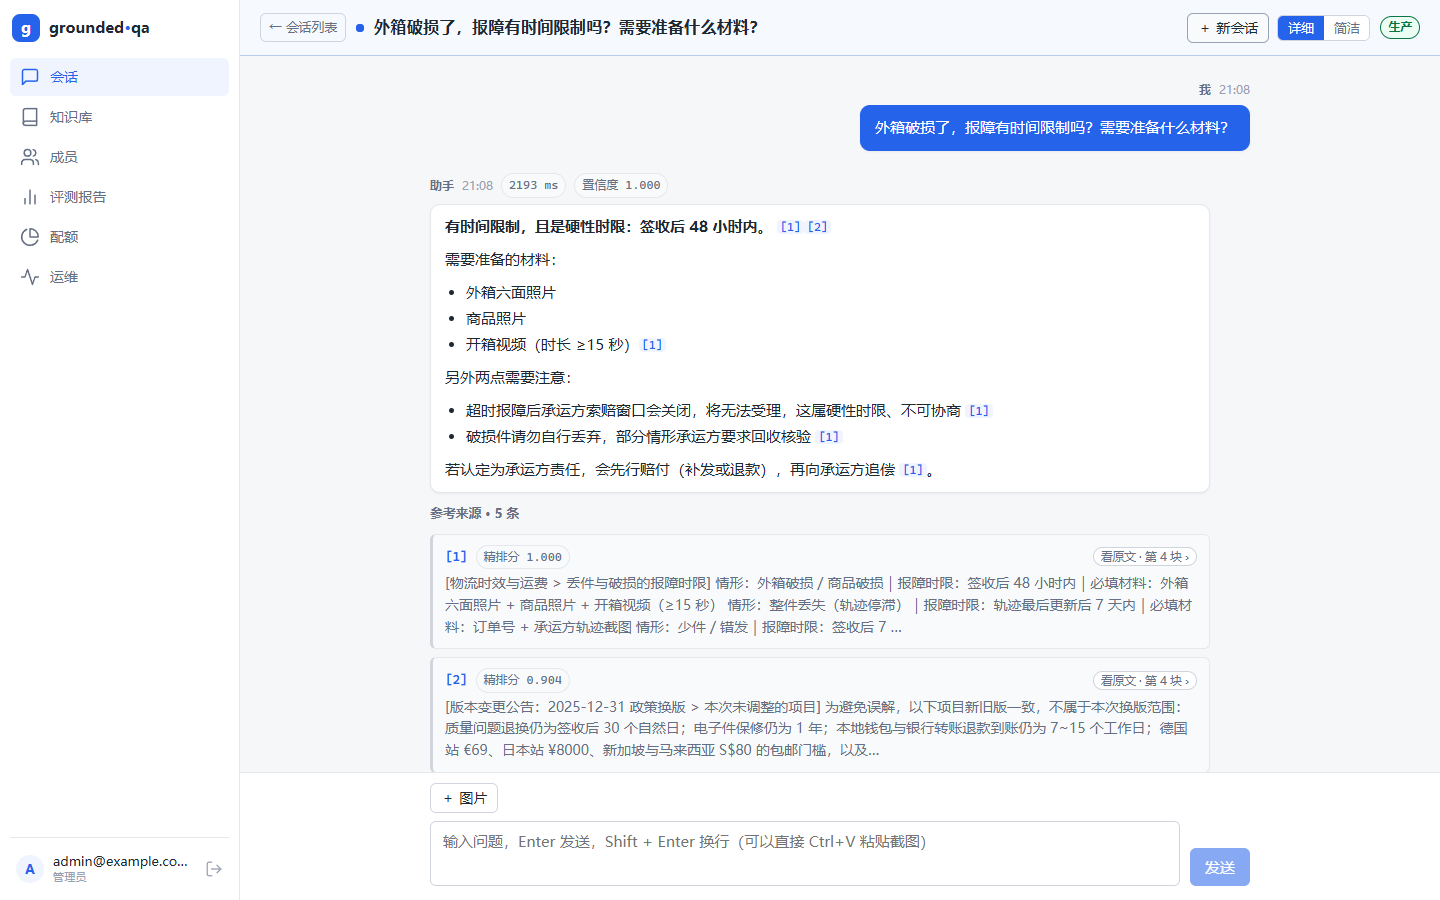
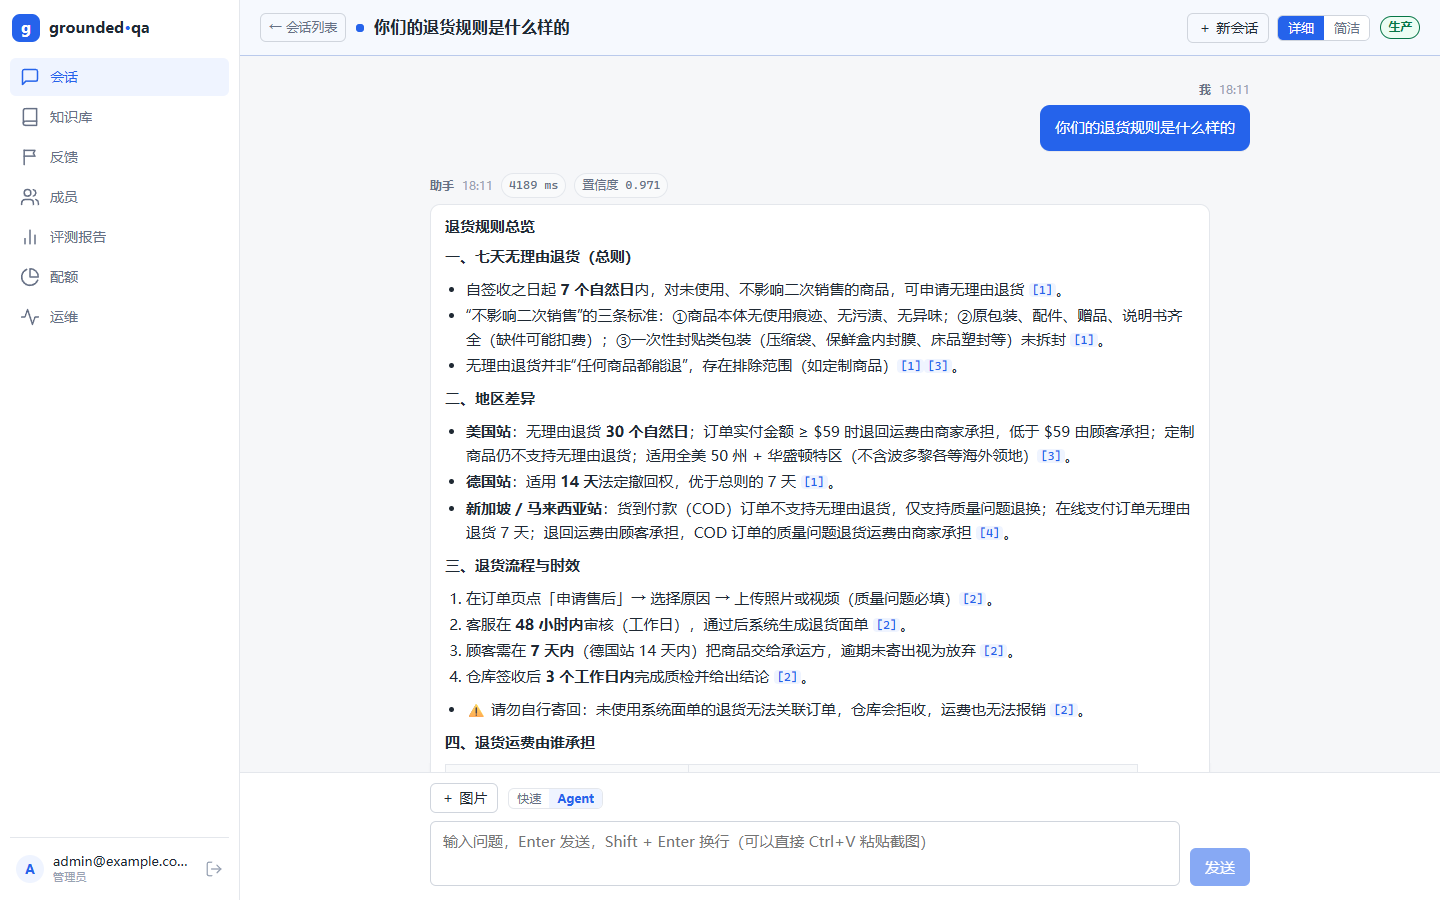
docs(README): 补 agent / badcase 闭环 / 页面清单，三张截图换新
- 头部数字更新：586 项（561 过 / 25 跳）· 最后更新 2026-10-28
- 能力表：加「模糊提问先问清」（4 工具 + 30 s 预算）与「badcase 闭环」（反馈→草稿→发布）
- 不显然的决定：串号条款改成「只改编号、不改文字」；加「agent 收益全在'先问清'」
- 评测：生成层标明 36 篇口径并补 48 篇 3 次均值 0.650；新增 ⑤ agent 配对与命令
- 治理表换 content_status 五态；体检图注写 48 篇 / 27 条 / 3 处
- 新增「页面」一节（登录·会话·问答·知识库·反馈·成员·评测报告·配额·运维·个人信息）
- 补「关掉页面不丢这一轮」、CD 回滚语义（灌库失败不回滚）、盘满时 /healthz 仍 200
- 截图：chat（快速/Agent 切换）、documents（双徽章 + 3 处冲突）、monitoring（自动改正计数）
- AGENTS：补 W26 收尾记录、阶段 0–8 收口、最后更新日期 2026-10-28

diff --git a/AGENTS.md b/AGENTS.md
@@ -1,6 +1,6 @@
-# AGENTS.md · 给 AI 助手的操作手册
+# AGENTS.md · 给 AI 助手的操作手册
 
-> 状态：**当前有效** ｜ 最后更新 2026-10-27
+> 状态：**当前有效** ｜ 最后更新 2026-10-28
 
 **给谁看**：**AI 编码助手**（Claude / Cursor / GLM / DeepSeek / 其他）。**不是**给人类看的。
 
@@ -461,7 +461,7 @@ uv run python scripts/kb/ingest.py --kb fastapi --path ../assets/knowledge-base/
 | **2** | **真要问，一次问清，只问一件。** 不许把决策拆成一串小问题慢慢挤 |
 | **3** | **要新增工作项，必须同时砍掉一个 —— 净增为零。** 答不出"换掉哪个"，就不许加 |
 | **4** | **想法不进计划书。** 还没定的一律放 `..\plan\CANDIDATES.md`（**只增不删**）；计划书写"已定"，候选池写"没定" |
-| **5** | **本文件（AGENTS.md）超过 65 KB 必须压缩。** 助手侧对**指令文件**有 **65 KB 预算**，超了会**从尾部静默截断** ⇒ **后面的内容等于不存在**（拿项目 #1 的实测教训）。<br>→ **加内容前先看体积**：`(Get-Item repo\AGENTS.md).Length / 1KB`。当前 **≈54 KB**（2026-10-27 压过一轮，**余量 ~10 KB**）。快到线时优先把细节**外移**：**"为什么"进 `docs\architecture.md`**（见纪律 7）；**本文件只留"怎么做事 ＋ 一句话结论"**。⚠ **§10「已知坑」仍是最大的一块（≈16 KB，占 30%）** —— 加坑时解法压到 1~2 句，**长解释放 architecture** |
+| **5** | **本文件（AGENTS.md）超过 65 KB 必须压缩。** 助手侧对**指令文件**有 **65 KB 预算**，超了会**从尾部静默截断** ⇒ **后面的内容等于不存在**（拿项目 #1 的实测教训）。<br>→ **加内容前先看体积**：`(Get-Item repo\AGENTS.md).Length / 1KB`。当前 **≈60 KB**（2026-10-28 校过，**余量 ~5 KB**）。快到线时优先把细节**外移**：**"为什么"进 `docs\architecture.md`**（见纪律 7）；**本文件只留"怎么做事 ＋ 一句话结论"**。⚠ **§10「已知坑」仍是最大的一块（≈16 KB，占 30%）** —— 加坑时解法压到 1~2 句，**长解释放 architecture** |
 | **6** | **服务器的事分两个文件记，别混。**<br>· `..\ops\server-log.md` = **操作日志**（跑过什么命令 + 结果）—— **只追加，会越写越长**<br>· `..\ops\server-notes.md` = **记事**（基线快照 / 防火墙 / 端口判据 / 镜像加速器 / 瘦身等**结论性事实**）—— 就地更新<br>**判断标准**：这条是"**我跑了 X**"还是"**这台机器是这样**"？<br>⚠ **2026-10-14 用户纠正**：我一开始把两者塞进同一个文件，理由是"少几个文件好找" —— **错的**。日志只增不减，把事实埋进流水里，等要找时就得翻几百行。**`ops\` 就这 2 个文件，不许再新开 md。** |
 | **7** | **解释必须落 `repo\docs\architecture.md`，不许只留在对话里。**<br>凡是"**为什么这么做 / 换成别的会怎样 / 代价是什么**"这类**解释性内容**，讲完就写进去。<br>**判断方法**：如果你说了"这里有个坑""为什么不这样""我认为最值得说的是……"，那它就该进 `architecture.md`。<br>⚠ **2026-10-15 用户指出**：我把三条关键设计只在对话里讲了 —— 用户看完才发现"**连我自己都不知道你是这样做的**"。**对话流不是文档**，它会被压缩、会丢失，而且用户**没法回头查**。<br>📌 分工：**详细解释进 `architecture.md`；`AGENTS §7.1` 只放一句话结论 + 指过去**（避免两边各写一份然后慢慢跑偏） |
 | **8** | **文档两条路径：同步「持续小步」，重整「症状触发」——绝不用"上下文快满"当触发。**<br>· **A 持续小步（默认）**：每完成一件事，立刻把 delta 写进**已有**位置。**不接受"先记着，回头一起写"。**<br>· **B 症状触发重整（例外）**：只有出现 ① 找不到东西 ② 同一事实两处且开始不一致 ③ 某文件超体积预算 ④ 某文件过半内容已"过期" —— 才动**结构**。<br>⚠ **为什么不用"上下文快满"**：那正是**最没空间**做细致重整的时刻；而且它把"同步"和"重整"混成一件事 → 会攒成一次性大扫除；结构频繁变动还会让你**记不住东西在哪**。<br>✅ **上下文快满时**：什么都不用特别做（状态本来就该在盘上）。最多核对 `§13` / `PLAN §8.2` / `PHASES` 三个数字 —— 5 分钟，**不是重整** |
@@ -474,9 +474,9 @@ uv run python scripts/kb/ingest.py --kb fastapi --path ../assets/knowledge-base/
 
 | 项 | 值 |
 |---|---|
-| 阶段 | **阶段 0–7 全部 ✅**（v1.0 12/12 · v1.1 5/5 · v1.2 3/3 · v1.3 治理闭环 · 走查 2026-10-25 收尾 · **阶段 7 agent 改造 2026-10-26 开档当日收口并上生产**；明细见 `PLAN §8` / §12 / **§13**）<br>🚀 生产：`http://120.24.67.82:8080`（**跑的就是最新 `main`** —— 每次 push 都会走 CD，所以别在文档里追版本号），8 容器 healthy、DB **48 篇 / 315 块**全带向量（2026-10-27 已加料进生产）、`orders=20`<br>✅ **586 项测试**（`561 通过 · 25 跳过`；CI 里集成测试会真跑）；评测：检索（60 题 · 加料后）全文 0.450 / 向量 0.867 / RRF 0.833 / **精排 0.950（57/60）· MRR 0.817**（加料前 0.983 / 0.885，冻结在 `evals/README.md` 台账）；生成三组要点命中（2026-10-24）**28.9% / 10.5% / 94.7%**、读图 **7/7**、带图 **2/3 vs 0/3**<br>**agent 配对（34 题 × 2 路，`--repeat 3`）**：**2026-10-27 加料后干净复跑** —— 澄清组 pipeline **4.4%** → agent **68.9%**（2026-10-28 补语料后复跑 **64.4%**，多数决同为 10/15，同一量级）（**逐轮 +64.4 pt**／多数决 **10/15 vs 0/15**）；护栏 多跳 95.8%→100% / 多诉求 93.3% / 单跳 100%；步数 **2.35**、工具 **19/19**、token **×5.51**、p95 8.62→11.63 s；**七条判据全绿**（2026-10-26 那版：66.7%／多数决 9/15／步数 2.29）<br>⚠ **"多步检索更强"这条证据拿不到**：18 道候选题逐一实测，**这个语料上构造不出"一次检索必漏"的题**（精排 hit@5 已 0.983 ＋ 36 篇主题密集 ＋ 语料带交叉引用）⟹ **不许把这个当卖点**。否定结论 → `docs/architecture.md` **§9.52**<br>⚠ **2026-10-26 线上事故**：阿里云百炼**预算耗尽**（`BudgetLimitExceeded`）→ embedding ＋ rerank 全挂、检索静默退化为纯全文（且**拒答闸门跟着失效**）⟹ 已补日志 ＋ `gq_retrieval_degraded_total` 计数器（`tests/test_degradation.py`）；**预算已由用户提额，生产现已恢复** |
+| 阶段 | **阶段 0–7 全部 ✅ ＋ 阶段 8（8b 批次 C / 8c 批次 D / 8d W24 / 8e 语料补丁）全部 ✅（2026-10-28）**（v1.0 12/12 · v1.1 5/5 · v1.2 3/3 · v1.3 治理闭环 · 走查 2026-10-25 收尾 · **阶段 7 agent 改造 2026-10-26 开档当日收口并上生产**；明细见 `PLAN §8` / §12 / **§13** / **§14**）<br>🚀 生产：`http://120.24.67.82:8080`（**跑的就是最新 `main`** —— 每次 push 都会走 CD，所以别在文档里追版本号），8 容器 healthy、DB **48 篇 / 315 块**全带向量（2026-10-27 已加料进生产）、`orders=20`<br>✅ **586 项测试**（`561 通过 · 25 跳过`；CI 里集成测试会真跑）；评测：检索（60 题 · 加料后）全文 0.450 / 向量 0.867 / RRF 0.833 / **精排 0.950（57/60）· MRR 0.817**（加料前 0.983 / 0.885，冻结在 `evals/README.md` 台账）；生成三组要点命中（2026-10-24）**28.9% / 10.5% / 94.7%**、读图 **7/7**、带图 **2/3 vs 0/3**<br>**agent 配对（34 题 × 2 路，`--repeat 3`）**：**2026-10-27 加料后干净复跑** —— 澄清组 pipeline **4.4%** → agent **68.9%**（2026-10-28 补语料后复跑 **64.4%**，多数决同为 10/15，同一量级）（**逐轮 +64.4 pt**／多数决 **10/15 vs 0/15**）；护栏 多跳 95.8%→100% / 多诉求 93.3% / 单跳 100%；步数 **2.35**、工具 **19/19**、token **×5.51**、p95 8.62→11.63 s；**七条判据全绿**（2026-10-26 那版：66.7%／多数决 9/15／步数 2.29）<br>⚠ **"多步检索更强"这条证据拿不到**：18 道候选题逐一实测，**这个语料上构造不出"一次检索必漏"的题**（精排 hit@5 已 0.983 ＋ 36 篇主题密集 ＋ 语料带交叉引用）⟹ **不许把这个当卖点**。否定结论 → `docs/architecture.md` **§9.52**<br>⚠ **2026-10-26 线上事故**：阿里云百炼**预算耗尽**（`BudgetLimitExceeded`）→ embedding ＋ rerank 全挂、检索静默退化为纯全文（且**拒答闸门跟着失效**）⟹ 已补日志 ＋ `gq_retrieval_degraded_total` 计数器（`tests/test_degradation.py`）；**预算已由用户提额，生产现已恢复** |
 | 计划书版本 | `plan\PROJECT-PLAN.md` **v11**（当前有效版，版本号写在文件头；**v11 = 2026-10-27**：**批次 A/B** —— 新决策全在 **§14**：D9 修法 D（按原子改编号）/ D10 W22 选 (a) 补常识篇目 / D11 采纳走草稿→人工发布 / D12 评测口径强制记录；另记一条限制「自然日按 `now` 的时区（容器 `TZ=Asia/Shanghai` ⟹ **北京日历**；2026-10-28 走查实测纠正，此前误记为"容器 UTC"）」。**v10 = 2026-10-26 阶段 7 规格仍在 §13**，v9 走查内容在 **§12**，均未改）。历史版本逐字冻结在 `..\archive\`：**初稿** `PROJECT-PLAN-初稿-2026-10-13.md`、**v1** `…-v1-2026-10-15.md`、**v2** `…-v2-2026-10-15.md`、**v3** `…-v3-2026-10-15.md`、**v4** `…-v4-2026-10-16.md`、**v5** `PROJECT-PLAN-v5-2026-10-19.md`（SHA256 `DE308ED1…591A`）、**v6** `PROJECT-PLAN-v6-2026-10-19.md`（SHA256 `0B553511…`）、**v7** `PROJECT-PLAN-v7-2026-10-22.md`（SHA256 `6CF15ED9…`）、**v8** `PROJECT-PLAN-v8-2026-10-24.md`（SHA256 `C9BC953B…`，125 531 B）、**v9** `PROJECT-PLAN-v9-2026-10-24.md`（SHA256 `19BF3A23…E602`，150 959 B）、**v10** `PROJECT-PLAN-v10-2026-10-26.md`（SHA256 `EA29CEF8…5FF5`，162 834 B）。<br>⚠ 归档名取**该版自己的定版日** —— 见 `PLAN §0.4`。<br>📌 **v2 起划定边界**：**已完成历史 → `git log`**；执行细节 → `..\ops\`；解释 → `repo\docs\architecture.md` |
 | 大方向 | **`plan\PHASES.md`**（薄表）—— **阶段 0 / 1（v1.0）/ 2（v1.1）全部 ✅ 完成**；**阶段 3 · v1.2 ✅ 完成（3/3）**，明细见 **`plan\PROJECT-PLAN.md` §8.3**；**阶段 4 · v1.3 全部 ✅（A ＋ B ＋ B2 ＋ C ＋ 引用治理）**，明细见 **§8.6** |
 | 下一步 | 🔄 **走查-第二次已完成（2026-10-27）** —— 结论/判定/批次清单全在 `..\walkthrough\走查-第二次.md` 的「📋 走查结果与结论」。**① 串号抽样已跑完**：306 句里真串号 **≈2.5%**、全是"错块号"，**校准前**尺子八成误报 ⟹ 只**收紧了检查器口径**（`citations.py` 数字必核/单位只作辅助 ＋ 序号与 ISO 日期不算数据 ＋ `pipeline` 补传 `extra_evidence`；校准后精确率 5/5，已上线），**修法 ✅ 已定并实现 D「按原子自动纠正编号」**（只改编号、不改文字；只在「唯一一块能支持这句话的全部原子」时才动；agent 在 `finish` 里修、pipeline 用 `StreamingRepair` 按句攒齐再发；真机回放 5 处→1 处；边界与理由 `architecture §9.54 ⑤`）；**② 批次 A 11 条 ✅ 全部完成并上生产（2026-10-27，`f38f030` ＋ `590af9e`，已真机验过）**；**③ 批次 B ✅ 已完成（2026-10-27）**：**B1** W22 加 **12 篇常识篇目**（`50-交易与交付/` ＋ `60-产品与养护/`）⟹ 语料 **36篇/237块 → 48篇/314块**；检索（`current`）**0.983 → 0.950**（掉 `ret-28`/`ret-43`，**不修**）、`all` 0.950→0.950；生成 3 次均值 **0.683 → 0.733**（**反升**）；**"没制造矛盾"机器验过**（`python -m app.kb.conflicts` 仍是那 3 处故意的内部稿冲突）· **B2** 反馈查看页 ＋「采纳入库」**草稿→人工发布**（`/feedback/{id}/adopt|draft|publish` ＋ `FeedbackView.vue`；**建行即 draft**、发布前 `collect(promote=…)` 做冲突体检、409 带原句、`force` 才发；7 条集成测试）· **B3** W23 只记不做 · **B4** 重跑配对评测（48 篇 · **预算恢复后干净复跑 17:02**）：澄清组逐轮 **4.4%→68.9%（+64.4 pt）**、多数决 **0/15→10/15**（判据 9/15 ✅）、护栏 95.8%→100% / 93.3% / 100%、步数 **2.35**、工具 19/19、token ×5.51 —— **七条判据全绿**（早上那版 57.8%／8-15 是百炼预算耗尽造成的降级，**作废**）。📌 **A+B 一起走查** → `..\walkthrough\走查-第三次.md`（**指南，B 部分已补齐**，新旧数字并列；**⓪ 部署已在 16:56 全绿、可以开走**）；评测口径强制记录 → `repo\evals\README.md`（含"同层并发会撞名覆盖"那条教训）。⚠ 走查已定**不做**：手机端适配 · 部署维护页 · 语义缓存 · 复杂度路由(W18) · 额度告警 · agent 自动写库。阶段 8 已立档；**下次有决策变更才升 v12**（AI 不擅自升）。<br>📊 **评测原始结果都在 `repo\evals\results\`**（gitignored，55 个 JSON，10-17 起）—— 用户要逐个复查；**查之前先看 `evals\run.py` / `agent_paired.py` 的 dump 结构（两者不同）**。<br>✅ **阶段 7 已完成**（规格 `PLAN §13`、取舍 `architecture §9.48–§9.52`、数字 `PHASES`）。**两条"别再试"**：① 「多步检索更强」**拿不到证据**（§9.52）；② 3 道"该问没问"的 badcase 在 `CANDIDATES` W21，**改了会连带拉低单跳护栏**。<br>📷 **截图怎么拍**：`gq-api` 容器里签一个 admin JWT（**不读密码**）＋ 本机注入 `localStorage` 的反向代理（模板 `.tmp/shotproxy.py`，不进 git），拍完删 token。<br>🔧 **六条硬规矩**（P2/P2.7/P2.8 定）：① 导航**不许再回到横排**；② 断点数字在 `main.css` 与 `AppSidebar.vue` **两处**，改一处必须改两处；③ 各页**不再自己写 `<h2>`**，用 `<AppHeader title hint tone back>`；④ 「看原文」抽屉**默认不发请求 / 只取 `ordinal ± 1` / 只开一个**；⑤ **删除一律硬删 + 确认框**（不留回收站），越权一律 404；⑥ **列表一律按组翻页**（全局 `limit` 会让一个组吃光配额）。解释 → `docs/architecture.md` §9.45–9.46。<br>⚠ 权限名是 **`contact:contact.base:readonly`**（`contact:user.base:readonly` 是旧名，不生效）。<br>⚠ **不许自己加批次外的活**；⚠ 演示登录默认关；⚠ **本机 `docker stop gq-feishu`**（会和生产的飞书抢同一条长连接）。 |
 | 未决项 | **无**（§8.4 D1 已**实测收口**：`pg_trgm` 在 `ctype=C` 下对中文完全失效，已改 `C.UTF-8`，路径不变） |
-| 刚完成 | ✅ **2026-10-28 · W24 收口（回滚语义）**：`deploy.yml` 的回滚条件从 `if: failure()` 收窄成 `if: failure() && steps.ingest.outcome != 'failure'` —— **灌库红照样红，但代码不回滚**（回滚是给坏镜像用的，不是给坏数据用的）；另加一步打印"为什么没回滚、接下来干什么"。**真演练过**（临时让 ingest 必红）：生产 tag = 演练提交、`.current_tag` 不前进、`/healthz` 200；revert 后一次部署恢复。解释 → `architecture §9.60`、过程 → `ops\server-log.md`。<br>✅ **2026-10-28 · 批次 D（第四轮反馈）**：① 反馈提交的**两套 id** 在 API 层消化（`resolveMessageId`：id 不像 UUID ⟹ 拉消息列表按内容对出真 id ＋ 重试 ＋ 中文提示；症状是"刷新过的旧回答能提交、当场生成的必失败"，根因是本页生成的回答 id 还是 `local-N`）；② 反馈页**按「答案错/引用错/其他」分组、可折叠**、各组「加载更多」（`GET /feedback?verdict=`）；③ 快照加**客户问 ＋ 原会话**（迁移 `9a1f4c7d2e80`，只加列不回填，老记录显示"没存提问"）；④ 运维页加「24 小时自动改正引用编号」；⑤ 每次上报都是**新记录**（迁移 `7d3b9e15c204` 删唯一约束；前端给「再报一次」）；⑥ 反馈可删（`DELETE /feedback/{id}`，仅管理员、硬删、不级联删草稿文档）；⑦ 草稿正文只放更正内容（不再塞"坐席指出的问题 / 依据 / chunk id"）＋ 洗掉行内 `[n]`；⑧ 知识库页加**内容状态**徽章（草稿/现行/已废止…），「已入库 ≠ 能进检索」一眼可见。测试 **583 项（558 通过 · 25 跳过）**、`pnpm build` 过、迁移 `check` 干净。取舍 → `architecture §9.59`、规格 → `PLAN §14.5`。<br>✅ **2026-10-28 · 批次 C（走查-第三次打出来的六件事）**：① `Content-Type` 收进 `client.ts::apiFetch`（反馈提交/采纳/发布 + "记住提问模式"四处一起活）；② `chat.ts::dispatch` 补 `agent_trace`/`citation_repairs` 透传（A1/A8 才算真修好）；③ **断开不再丢这一轮**（前端卸载不 abort ＋ 孤儿提示/轮询/重发；后端 `finally` 套 `anyio.CancelScope(shield=True)`）—— 实测过"两条提问没有助手消息、nginx 200/0 字节、日志无异常"；④ agent 引用编号压成 1..N（`[14]` 那种是"本轮第几条证据"）；⑤ 飞书正文删行内 `[n]`；⑥ 运维页 `拒答 1 / 全部 89`。⚠ 顺带纠正：**自然日按北京日历**（容器 `TZ=Asia/Shanghai`），此前文档写的"容器 UTC"是错的；⚠ 没做：`W25` 生成与转发解耦、`W26` 补「5 个城市」名单（要重跑评测）。<br>✅ **2026-10-27**：**串号抽样（306 句）→ 校尺 → 修法 D** —— 真串号 ≈2.5%、形态全是「错块号」；检查器口径收紧（数字必核 / 单位只作辅助、列表序号与 ISO 日期不算数据、`pipeline` 补传 `extra_evidence`）；**修法 D 上线**（按原子确定性改编号）；**本文件从 63.6 KB 压到 ≈54 KB（只压措辞，坑一条没删）**。取舍 `architecture §9.54`、过程 `walkthrough\走查-第二次.md` §三。<br>📎 更早的（v1.0–v1.3、阶段 7 agent、飞书渠道、提问带图、冲突告警、引用串号…）→ **`git log`**（提交信息里写了"为什么"）＋ `PLAN §8`。**本文件不再逐条累积。** |
+| 刚完成 | ✅ **2026-10-28 · W26 收尾（补语料 ＋ 三套评测重跑）**：「中国大陆 5 个城市」名单**独立成节**放在文档末尾（314→315 块）—— 内联那版检索 0.967 但生成 0.633，独立成节检索 0.950、生成 0.650 ⟹ **改语料要盯"块边界"**；检索 / 生成 / agent 三套均重跑，口径入 `evals/README.md`。<br>✅ **2026-10-28 · W24 收口（回滚语义）**：`deploy.yml` 的回滚条件从 `if: failure()` 收窄成 `if: failure() && steps.ingest.outcome != 'failure'` —— **灌库红照样红，但代码不回滚**（回滚是给坏镜像用的，不是给坏数据用的）；另加一步打印"为什么没回滚、接下来干什么"。**真演练过**（临时让 ingest 必红）：生产 tag = 演练提交、`.current_tag` 不前进、`/healthz` 200；revert 后一次部署恢复。解释 → `architecture §9.60`、过程 → `ops\server-log.md`。<br>✅ **2026-10-28 · 批次 D（第四轮反馈）**：① 反馈提交的**两套 id** 在 API 层消化（`resolveMessageId`：id 不像 UUID ⟹ 拉消息列表按内容对出真 id ＋ 重试 ＋ 中文提示；症状是"刷新过的旧回答能提交、当场生成的必失败"，根因是本页生成的回答 id 还是 `local-N`）；② 反馈页**按「答案错/引用错/其他」分组、可折叠**、各组「加载更多」（`GET /feedback?verdict=`）；③ 快照加**客户问 ＋ 原会话**（迁移 `9a1f4c7d2e80`，只加列不回填，老记录显示"没存提问"）；④ 运维页加「24 小时自动改正引用编号」；⑤ 每次上报都是**新记录**（迁移 `7d3b9e15c204` 删唯一约束；前端给「再报一次」）；⑥ 反馈可删（`DELETE /feedback/{id}`，仅管理员、硬删、不级联删草稿文档）；⑦ 草稿正文只放更正内容（不再塞"坐席指出的问题 / 依据 / chunk id"）＋ 洗掉行内 `[n]`；⑧ 知识库页加**内容状态**徽章（草稿/现行/已废止…），「已入库 ≠ 能进检索」一眼可见。测试 **583 项（558 通过 · 25 跳过）**、`pnpm build` 过、迁移 `check` 干净。取舍 → `architecture §9.59`、规格 → `PLAN §14.5`。<br>✅ **2026-10-28 · 批次 C（走查-第三次打出来的六件事）**：① `Content-Type` 收进 `client.ts::apiFetch`（反馈提交/采纳/发布 + "记住提问模式"四处一起活）；② `chat.ts::dispatch` 补 `agent_trace`/`citation_repairs` 透传（A1/A8 才算真修好）；③ **断开不再丢这一轮**（前端卸载不 abort ＋ 孤儿提示/轮询/重发；后端 `finally` 套 `anyio.CancelScope(shield=True)`）—— 实测过"两条提问没有助手消息、nginx 200/0 字节、日志无异常"；④ agent 引用编号压成 1..N（`[14]` 那种是"本轮第几条证据"）；⑤ 飞书正文删行内 `[n]`；⑥ 运维页 `拒答 1 / 全部 89`。⚠ 顺带纠正：**自然日按北京日历**（容器 `TZ=Asia/Shanghai`），此前文档写的"容器 UTC"是错的；⚠ 没做：`W25` 生成与转发解耦、`W26` 补「5 个城市」名单（**当天晚些补上了**，见上条）。<br>✅ **2026-10-27**：**串号抽样（306 句）→ 校尺 → 修法 D** —— 真串号 ≈2.5%、形态全是「错块号」；检查器口径收紧（数字必核 / 单位只作辅助、列表序号与 ISO 日期不算数据、`pipeline` 补传 `extra_evidence`）；**修法 D 上线**（按原子确定性改编号）；**本文件从 63.6 KB 压到 ≈54 KB（只压措辞，坑一条没删）**。取舍 `architecture §9.54`、过程 `walkthrough\走查-第二次.md` §三。<br>📎 更早的（v1.0–v1.3、阶段 7 agent、飞书渠道、提问带图、冲突告警、引用串号…）→ **`git log`**（提交信息里写了"为什么"）＋ `PLAN §8`。**本文件不再逐条累积。** |
